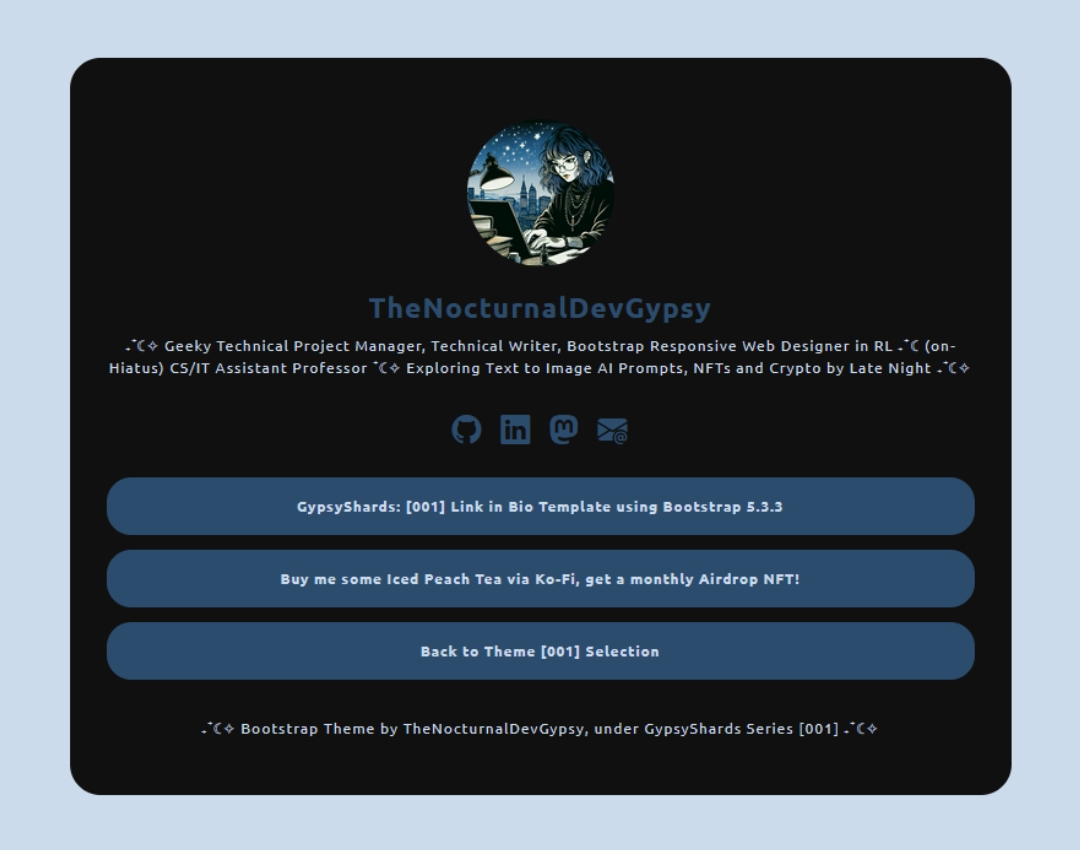
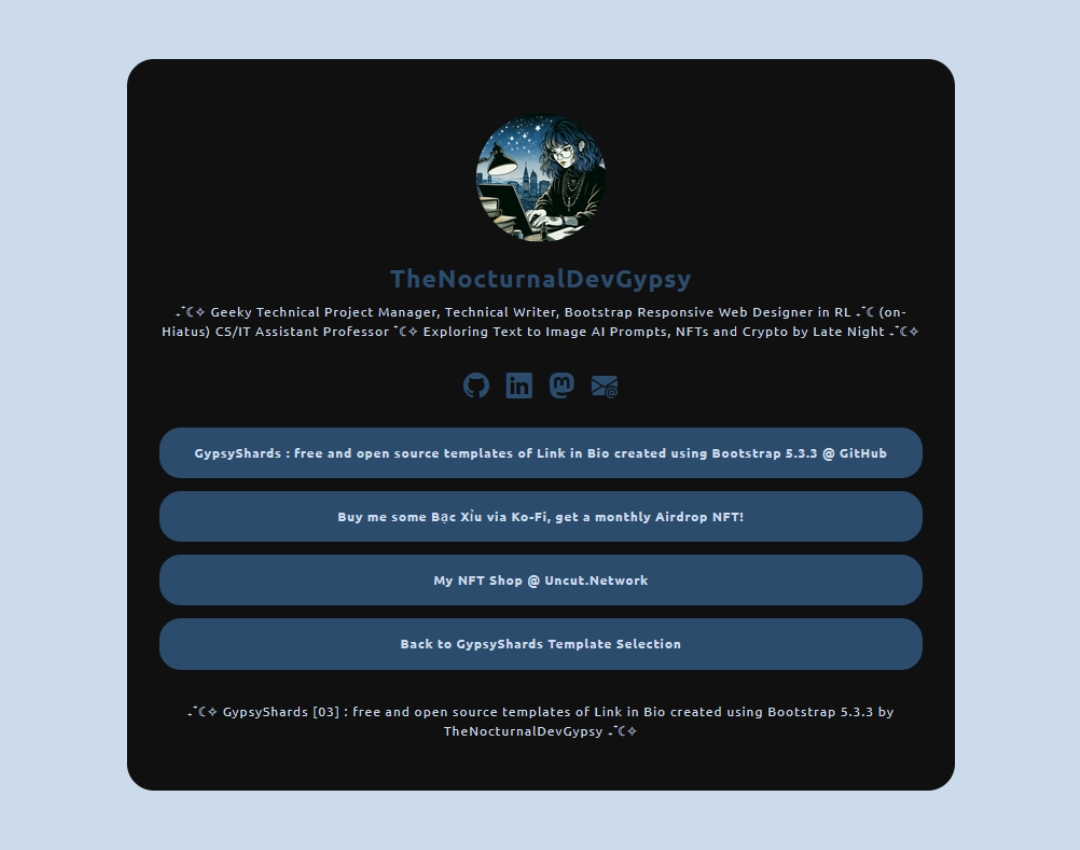
Updated README.md and all the templates, now showing from Latest to Oldest

Changed region(s): [[0.0611, 0.0612, 0.9472, 0.9482]]

diff --git a/index.html b/index.html
@@ -56,38 +56,39 @@
                <h1>GypsyShards : free and open source templates of Link in Bio created using Bootstrap 5.3.3</h1>
                <p>Looks like you stumbled to one of my personal project at GitHub, GypsyShards: one of my active personal project for refreshing my skills with the latest Bootstrap's release (5.3.3), focusing with creating Responsive (`mobile`, `tablet` and `desktop`) Link in Bio templates.</p>
                <p>If you find this repo helpful, please don't forget to <i class="lni lni-star-half"></i> and <i class="bi bi-diagram-3"></i> at <a href="https://github.com/thenocturnaldevgypsy/gypsyshards-bootstrap-template-linkinbio">GitHub</a>, also, maybe buy me a <i class="lni lni-coffee-cup"></i> at <a href="https://ko-fi.com/thenocturnaldevgypsy/">Ko-Fi</a>.</p>
+               <h2>From Latest to Oldest</h2>
             </div>
          <!-- Theme 001 Link in Bio Template - Home > Header // End -->
 
          <!-- Theme 001 Link in Bio Template - Home > Template Selection // Start -->
             <div class="template-selection-container">
-               <a href="theme-001-01.html" class="template-button">
-                  <img src="assets/img/001-01.jpg" alt="GypsyShards [Theme 001.1] Link in Bio Template using Bootstrap 5.3.3">
-                  <p>Theme 001.01 - Basic Link in Bio: One Color Background, Profile Picture, H1, Description, Quick Social Media Links, Link Buttons and Simple Footer.</p>
-               </a>
-               <a href="theme-001-02.html" class="template-button">
-                  <img src="assets/img/001-02.jpg" alt="GypsyShards [Theme 001.2] Link in Bio Template using Bootstrap 5.3.3">
-                  <p>Theme 001.02 - Basic Link in Bio: Color Fading Transition Background, Profile Picture, H1, Description, Quick Social Media Links, Link Buttons and Simple Footer.</p>
-               </a>
-               <a href="theme-001-03.html" class="template-button">
-                  <img src="assets/img/001-03.jpg" alt="GypsyShards [Theme 001.3] Link in Bio Template using Bootstrap 5.3.3">
-                  <p>Theme 001.03 - Basic Link in Bio: Profile Picture, H1, Description, Quick Social Media Links, Link Buttons and Simple Footer.</p>
-               </a>
-               <a href="theme-001-04.html" class="template-button">
-                  <img src="assets/img/001-04.jpg" alt="GypsyShards [Theme 001.4] Link in Bio Template using Bootstrap 5.3.3">
-                  <p>Theme 001.04 - Basic Link in Bio: Responsive Background Image, Semi-transparent Container, Profile Picture, H1, Description, Quick Social Media Links, Border Hover Link Buttons and Simple Footer.</p>
-               </a>
-               <a href="theme-001-05.html" class="template-button">
-                  <img src="assets/img/001-05.jpg" alt="GypsyShards [Theme 001.5] Link in Bio Template using Bootstrap 5.3.3">
-                  <p>Theme 001.05 - Basic Link in Bio: Responsive Background Image, Blurry via CSS, Semi-transparent Container, Profile Picture, H1, Description, Quick Social Media Links, Border Hover Link Buttons and Simple Footer.</p>
+               <a href="theme-001-07.html" class="template-button">
+                  <img src="assets/img/001-07.jpg" alt="GypsyShards [07] Link in Bio Template using Bootstrap 5.3.3">
+                  <p>Theme 07 - Semi-Basic Link in Bio: Half-image/Half-solid color Container, Profile Picture, H1, Description, Quick Social Media Links, Link Buttons with H2 Title and Description, and Simple Footer.</p>
                </a>
                <a href="theme-001-06.html" class="template-button">
-                  <img src="assets/img/001-06.jpg" alt="GypsyShards [Theme 001.6] Link in Bio Template using Bootstrap 5.3.3">
-                  <p>Theme 001.06 - Basic Link in Bio: Responsive Background Video from Youtube on Loop and Mute, Semi-transparent Container, Profile Picture, H1, Description, Quick Social Media Links, Border Hover Link Buttons and Simple Footer.</p>
+                  <img src="assets/img/001-06.jpg" alt="GypsyShards [06] Link in Bio Template using Bootstrap 5.3.3">
+                  <p>Theme 06 - Basic Link in Bio: Responsive Background Video from Youtube on Loop and Mute, Semi-transparent Container, Profile Picture, H1, Description, Quick Social Media Links, Border Hover Link Buttons and Simple Footer.</p>
                </a>
-               <a href="theme-001-07.html" class="template-button">
-                  <img src="assets/img/001-07.jpg" alt="GypsyShards [Theme 001.6] Link in Bio Template using Bootstrap 5.3.3">
-                  <p>Theme 001.07 - Semi-Basic Link in Bio: Half-image/Half-solid color Container, Profile Picture, H1, Description, Quick Social Media Links, Link Buttons with H2 Title and Description, and Simple Footer.</p>
+               <a href="theme-001-05.html" class="template-button">
+                  <img src="assets/img/001-05.jpg" alt="GypsyShards [05] Link in Bio Template using Bootstrap 5.3.3">
+                  <p>Theme 05 - Basic Link in Bio: Responsive Background Image, Blurry via CSS, Semi-transparent Container, Profile Picture, H1, Description, Quick Social Media Links, Border Hover Link Buttons and Simple Footer.</p>
+               </a>
+               <a href="theme-001-04.html" class="template-button">
+                  <img src="assets/img/001-04.jpg" alt="GypsyShards [04] Link in Bio Template using Bootstrap 5.3.3">
+                  <p>Theme 04 - Basic Link in Bio: Responsive Background Image, Semi-transparent Container, Profile Picture, H1, Description, Quick Social Media Links, Border Hover Link Buttons and Simple Footer.</p>
+               </a>
+               <a href="theme-001-03.html" class="template-button">
+                  <img src="assets/img/001-03.jpg" alt="GypsyShards [03] Link in Bio Template using Bootstrap 5.3.3">
+                  <p>Theme 03 - Basic Link in Bio: Profile Picture, H1, Description, Quick Social Media Links, Link Buttons and Simple Footer.</p>
+               </a>
+               <a href="theme-001-02.html" class="template-button">
+                  <img src="assets/img/001-02.jpg" alt="GypsyShards [02] Link in Bio Template using Bootstrap 5.3.3">
+                  <p>Theme 02 - Basic Link in Bio: Color Fading Transition Background, Profile Picture, H1, Description, Quick Social Media Links, Link Buttons and Simple Footer.</p>
+               </a>
+               <a href="theme-001-01.html" class="template-button">
+                  <img src="assets/img/001-01.jpg" alt="GypsyShards [01] Link in Bio Template using Bootstrap 5.3.3">
+                  <p>Theme 01 - Basic Link in Bio: One Color Background, Profile Picture, H1, Description, Quick Social Media Links, Link Buttons and Simple Footer.</p>
                </a>
             </div>
          <!-- Theme 001 Link in Bio Template - Home > Template Selection // End -->

diff --git a/theme-001-07.html b/theme-001-07.html
@@ -12,7 +12,7 @@
       <meta name="viewport" content="width=device-width, initial-scale=1">
 
       <!-- For SEO Purposes // Start -->
-         <title>GypsyShards: [Theme 001.7] Link in Bio Template using Bootstrap 5.3.3 by TheNocturnalDevGypsy</title>
+         <title>GypsyShards: [07] Link in Bio Template using Bootstrap 5.3.3 by TheNocturnalDevGypsy</title>
          <meta name="description" content="">
          <meta name="keywords" content="">
          <meta name="author" content="TheNocturnalDevGypsy [ Abegail Baustista Torrendon ]">
@@ -71,15 +71,19 @@
             <!-- Theme 001.7 Link in Bio Template > Quick Links Buttons // Start -->
                <div class="linkinbio-quick-links">
                   <div class="linkinbio-link-button" onclick="window.open('https://github.com/thenocturnaldevgypsy/gypsyshards-bootstrap-template-linkinbio')">
-                     <h2>GypsyShards: [001] Link in Bio Template using Bootstrap 5.3.3</h2>
+                     <h2>GypsyShards : free and open source templates of Link in Bio created using Bootstrap 5.3.3</h2>
                      <span>Find the Repo at Github, please don't forget to <i class="lni lni-star-half"></i> and <i class="bi bi-diagram-3"></i>!</span>
                   </div>
                   <div class="linkinbio-link-button" onclick="window.open('https://ko-fi.com/thenocturnaldevgypsy')">
-                     <h2>Buy me some Iced Peach Tea via Ko-Fi, get a monthly Airdrop NFT!</h2>
-                     <span>If you find this theme/template useful, you can buy me a <i class="lni lni-coffee-cup"></i>!</span>
+                     <h2>Buy me some Bạc Xỉu via Ko-Fi, get a monthly Airdrop NFT!</h2>
+                     <span>If you find this theme/template useful, you can buy me a <i class="lni lni-coffee-cup"></i> at Ko-Fi!</span>
+                  </div>
+                  <div class="linkinbio-link-button" onclick="window.open('https://uncut.network/user/4296077072')">
+                     <h2>My NFT Shop @ Uncut.Network</h2>
+                     <span>NFTs Collection available at Uncut.network (WAXp and Polygon)</span>
                   </div>
                   <div class="linkinbio-link-button" onclick="window.location.href='index.html'">
-                     <h2>Back to Theme [001] Selection</h2>
+                     <h2>Back to GypsyShards Template Selection</h2>
                      <span>Browse the other templates under this project</span>
                </div>
                </div>
@@ -87,7 +91,8 @@
 
             <!-- Theme 001.7 Link in Bio Template > Footer // Start -->
                <div class="linkinbio-footer">
-                  <p>₊⁺☾✧ Bootstrap Theme by TheNocturnalDevGypsy ₊⁺☾✧</p>
+                  <p>₊⁺☾✧ GypsyShards [07] by TheNocturnalDevGypsy ₊⁺☾✧</p>
+                  <p>Free and open source templates of Link in Bio created using Bootstrap 5.3.3</p>
                </div>
             <!-- Theme 001.7 Link in Bio Template > Footer // End -->
 

diff --git a/theme-001-01.html b/theme-001-01.html
@@ -12,7 +12,7 @@
       <meta name="viewport" content="width=device-width, initial-scale=1">
 
       <!-- For SEO Purposes // Start -->
-         <title>GypsyShards: [Theme 001.1] Link in Bio Template using Bootstrap 5.3.3 by TheNocturnalDevGypsy</title>
+         <title>GypsyShards: [01] Link in Bio Template using Bootstrap 5.3.3 by TheNocturnalDevGypsy</title>
          <meta name="description" content="">
          <meta name="keywords" content="">
          <meta name="author" content="TheNocturnalDevGypsy [ Abegail Baustista Torrendon ]">
@@ -70,15 +70,16 @@
 
             <!-- Theme 001.1 Link in Bio Template > Quick Links Buttons // Start -->
                <div class="linkinbio-quick-links">
-                  <a href="https://github.com/thenocturnaldevgypsy/gypsyshards-bootstrap-template-linkinbio" class="linkinbio-link-button">GypsyShards: [001] Link in Bio Template using Bootstrap 5.3.3</a>
-                  <a href="https://ko-fi.com/thenocturnaldevgypsy/" class="linkinbio-link-button">Buy me some Iced Peach Tea via Ko-Fi, get a monthly Airdrop NFT!</a>
-                  <a href="index.html" class="linkinbio-link-button">Back to Theme [001] Selection</a>
+                  <a href="https://github.com/thenocturnaldevgypsy/gypsyshards-bootstrap-template-linkinbio" class="linkinbio-link-button">GypsyShards : free and open source templates of Link in Bio created using Bootstrap 5.3.3 @ GitHub</a>
+                  <a href="https://ko-fi.com/thenocturnaldevgypsy/" class="linkinbio-link-button">Buy me some Bạc Xỉu via Ko-Fi, get a monthly Airdrop NFT!</a>
+                  <a href="https://uncut.network/user/4296077072" class="linkinbio-link-button">My NFT Shop @ Uncut.Network</a>
+                  <a href="index.html" class="linkinbio-link-button">Back to GypsyShards Template Selection</a>
                </div>
             <!-- Theme 001.1 Link in Bio Template > Quick Links Buttons // Start -->
 
             <!-- Theme 001.1 Link in Bio Template > Footer // Start -->
                <div class="linkinbio-footer">
-                  <p>₊⁺☾✧ Bootstrap Theme by TheNocturnalDevGypsy, under GypsyShards Series [001] ₊⁺☾✧</p>
+                  <p>₊⁺☾✧ GypsyShards [01] :  free and open source templates of Link in Bio created using Bootstrap 5.3.3 by TheNocturnalDevGypsy ₊⁺☾✧</p>
                </div>
             <!-- Theme 001.1 Link in Bio Template > Footer // End -->
 

diff --git a/theme-001-02.html b/theme-001-02.html
@@ -12,7 +12,7 @@
       <meta name="viewport" content="width=device-width, initial-scale=1">
 
       <!-- For SEO Purposes // Start -->
-         <title>GypsyShards: [Theme 001.2] Link in Bio Template using Bootstrap 5.3.3 by TheNocturnalDevGypsy</title>
+         <title>GypsyShards: [02] Link in Bio Template using Bootstrap 5.3.3 by TheNocturnalDevGypsy</title>
          <meta name="description" content="">
          <meta name="keywords" content="">
          <meta name="author" content="TheNocturnalDevGypsy [ Abegail Baustista Torrendon ]">
@@ -70,15 +70,16 @@
 
             <!-- Theme 001.2 Link in Bio Template > Quick Links Buttons // Start -->
                <div class="linkinbio-quick-links">
-                  <a href="https://github.com/thenocturnaldevgypsy/gypsyshards-bootstrap-template-linkinbio" class="linkinbio-link-button">GypsyShards: [001] Link in Bio Template using Bootstrap 5.3.3</a>
-                  <a href="https://ko-fi.com/thenocturnaldevgypsy/" class="linkinbio-link-button">Buy me some Iced Peach Tea via Ko-Fi, get a monthly Airdrop NFT!</a>
-                  <a href="index.html" class="linkinbio-link-button">Back to Theme [001] Selection</a>
+                  <a href="https://github.com/thenocturnaldevgypsy/gypsyshards-bootstrap-template-linkinbio" class="linkinbio-link-button">GypsyShards : free and open source templates of Link in Bio created using Bootstrap 5.3.3 @ GitHub</a>
+                  <a href="https://ko-fi.com/thenocturnaldevgypsy/" class="linkinbio-link-button">Buy me some Bạc Xỉu via Ko-Fi, get a monthly Airdrop NFT!</a>
+                  <a href="https://uncut.network/user/4296077072" class="linkinbio-link-button">My NFT Shop @ Uncut.Network</a>
+                  <a href="index.html" class="linkinbio-link-button">Back to GypsyShards Template Selection</a>
                </div>
             <!-- Theme 001.2 Link in Bio Template > Quick Links Buttons // Start -->
 
             <!-- Theme 001.2 Link in Bio Template > Footer // Start -->
                <div class="linkinbio-footer">
-                  <p>₊⁺☾✧ Bootstrap Theme by TheNocturnalDevGypsy, under GypsyShards Series [001] ₊⁺☾✧</p>
+                  <p>₊⁺☾✧ GypsyShards [02] :  free and open source templates of Link in Bio created using Bootstrap 5.3.3 by TheNocturnalDevGypsy ₊⁺☾✧</p>
                </div>
             <!-- Theme 001.2 Link in Bio Template > Footer // End -->
 

diff --git a/theme-001-03.html b/theme-001-03.html
@@ -12,7 +12,7 @@
       <meta name="viewport" content="width=device-width, initial-scale=1">
 
       <!-- For SEO Purposes // Start -->
-         <title>GypsyShards: [Theme 001.3] Link in Bio Template using Bootstrap 5.3.3 by TheNocturnalDevGypsy</title>
+         <title>GypsyShards: [03] Link in Bio Template using Bootstrap 5.3.3 by TheNocturnalDevGypsy</title>
          <meta name="description" content="">
          <meta name="keywords" content="">
          <meta name="author" content="TheNocturnalDevGypsy [ Abegail Baustista Torrendon ]">
@@ -70,15 +70,16 @@
 
             <!-- Theme 001.3 Link in Bio Template > Quick Links Buttons // Start -->
                <div class="linkinbio-quick-links">
-                  <a href="https://github.com/thenocturnaldevgypsy/gypsyshards-bootstrap-template-linkinbio" class="linkinbio-link-button">GypsyShards: [001] Link in Bio Template using Bootstrap 5.3.3</a>
-                  <a href="https://ko-fi.com/thenocturnaldevgypsy/" class="linkinbio-link-button">Buy me some Iced Peach Tea via Ko-Fi, get a monthly Airdrop NFT!</a>
-                  <a href="index.html" class="linkinbio-link-button">Back to Theme [001] Selection</a>
+                  <a href="https://github.com/thenocturnaldevgypsy/gypsyshards-bootstrap-template-linkinbio" class="linkinbio-link-button">GypsyShards : free and open source templates of Link in Bio created using Bootstrap 5.3.3 @ GitHub</a>
+                  <a href="https://ko-fi.com/thenocturnaldevgypsy/" class="linkinbio-link-button">Buy me some Bạc Xỉu via Ko-Fi, get a monthly Airdrop NFT!</a>
+                  <a href="https://uncut.network/user/4296077072" class="linkinbio-link-button">My NFT Shop @ Uncut.Network</a>
+                  <a href="index.html" class="linkinbio-link-button">Back to GypsyShards Template Selection</a>
                </div>
             <!-- Theme 001.3 Link in Bio Template > Quick Links Buttons // Start -->
 
             <!-- Theme 001.3 Link in Bio Template > Footer // Start -->
                <div class="linkinbio-footer">
-                  <p>₊⁺☾✧ Bootstrap Theme by TheNocturnalDevGypsy, under GypsyShards Series [001] ₊⁺☾✧</p>
+                  <p>₊⁺☾✧ GypsyShards [03] :  free and open source templates of Link in Bio created using Bootstrap 5.3.3 by TheNocturnalDevGypsy ₊⁺☾✧</p>
                </div>
             <!-- Theme 001.3 Link in Bio Template > Footer // End -->
 

diff --git a/theme-001-04.html b/theme-001-04.html
@@ -12,7 +12,7 @@
       <meta name="viewport" content="width=device-width, initial-scale=1.0">
 
       <!-- For SEO Purposes // Start -->
-         <title>GypsyShards: [Theme 001.4] Link in Bio Template using Bootstrap 5.3.3 by TheNocturnalDevGypsy</title>
+         <title>GypsyShards: [04] Link in Bio Template using Bootstrap 5.3.3 by TheNocturnalDevGypsy</title>
          <meta name="description" content="">
          <meta name="keywords" content="">
          <meta name="author" content="TheNocturnalDevGypsy [ Abegail Baustista Torrendon ]">
@@ -70,15 +70,16 @@
 
             <!-- Theme 001.4 Link in Bio Template > Quick Links Buttons // Start -->
                <div class="linkinbio-quick-links">
-                  <a href="https://github.com/thenocturnaldevgypsy/gypsyshards-bootstrap-template-linkinbio" class="linkinbio-link-button">GypsyShards: [001] Link in Bio Template using Bootstrap 5.3.3</a>
-                  <a href="https://ko-fi.com/thenocturnaldevgypsy/" class="linkinbio-link-button">Buy me some Iced Peach Tea via Ko-Fi, get a monthly Airdrop NFT!</a>
-                  <a href="index.html" class="linkinbio-link-button">Back to Theme [001] Selection</a>
+                  <a href="https://github.com/thenocturnaldevgypsy/gypsyshards-bootstrap-template-linkinbio" class="linkinbio-link-button">GypsyShards : free and open source templates of Link in Bio created using Bootstrap 5.3.3 @ GitHub</a>
+                  <a href="https://ko-fi.com/thenocturnaldevgypsy/" class="linkinbio-link-button">Buy me some Bạc Xỉu via Ko-Fi, get a monthly Airdrop NFT!</a>
+                  <a href="https://uncut.network/user/4296077072" class="linkinbio-link-button">My NFT Shop @ Uncut.Network</a>
+                  <a href="index.html" class="linkinbio-link-button">Back to GypsyShards Template Selection</a>
                </div>
             <!-- Theme 001.4 Link in Bio Template > Quick Links Buttons // Start -->
 
             <!-- Theme 001.4 Link in Bio Template > Footer // Start -->
                <div class="linkinbio-footer">
-                  <p>₊⁺☾✧ Bootstrap Theme by TheNocturnalDevGypsy ₊⁺☾✧</p>
+                  <p>₊⁺☾✧ GypsyShards [04] :  free and open source templates of Link in Bio created using Bootstrap 5.3.3 by TheNocturnalDevGypsy ₊⁺☾✧</p>
                </div>
             <!-- Theme 001.4 Link in Bio Template > Footer // End -->
 

diff --git a/theme-001-05.html b/theme-001-05.html
@@ -12,7 +12,7 @@
       <meta name="viewport" content="width=device-width, initial-scale=1.0">
 
       <!-- For SEO Purposes // Start -->
-         <title>GypsyShards: [Theme 001.5] Link in Bio Template using Bootstrap 5.3.3 by TheNocturnalDevGypsy</title>
+         <title>GypsyShards: [05] Link in Bio Template using Bootstrap 5.3.3 by TheNocturnalDevGypsy</title>
          <meta name="description" content="">
          <meta name="keywords" content="">
          <meta name="author" content="TheNocturnalDevGypsy [ Abegail Baustista Torrendon ]">
@@ -70,15 +70,16 @@
 
             <!-- Theme 001.5 Link in Bio Template > Quick Links Buttons // Start -->
                <div class="linkinbio-quick-links">
-                  <a href="https://github.com/thenocturnaldevgypsy/gypsyshards-bootstrap-template-linkinbio" class="linkinbio-link-button">GypsyShards: [001] Link in Bio Template using Bootstrap 5.3.3</a>
-                  <a href="https://ko-fi.com/thenocturnaldevgypsy/" class="linkinbio-link-button">Buy me some Iced Peach Tea via Ko-Fi, get a monthly Airdrop NFT!</a>
-                  <a href="index.html" class="linkinbio-link-button">Back to Theme [001] Selection</a>
+                  <a href="https://github.com/thenocturnaldevgypsy/gypsyshards-bootstrap-template-linkinbio" class="linkinbio-link-button">GypsyShards : free and open source templates of Link in Bio created using Bootstrap 5.3.3 @ GitHub</a>
+                  <a href="https://ko-fi.com/thenocturnaldevgypsy/" class="linkinbio-link-button">Buy me some Bạc Xỉu via Ko-Fi, get a monthly Airdrop NFT!</a>
+                  <a href="https://uncut.network/user/4296077072" class="linkinbio-link-button">My NFT Shop @ Uncut.Network</a>
+                  <a href="index.html" class="linkinbio-link-button">Back to GypsyShards Template Selection</a>
                </div>
             <!-- Theme 001.5 Link in Bio Template > Quick Links Buttons // Start -->
 
             <!-- Theme 001.5 Link in Bio Template > Footer // Start -->
                <div class="linkinbio-footer">
-                  <p>₊⁺☾✧ Bootstrap Theme by TheNocturnalDevGypsy ₊⁺☾✧</p>
+                  <p>₊⁺☾✧ GypsyShards [05] :  free and open source templates of Link in Bio created using Bootstrap 5.3.3 by TheNocturnalDevGypsy ₊⁺☾✧</p>
                </div>
             <!-- Theme 001.5 Link in Bio Template > Footer // End -->
 

diff --git a/theme-001-06.html b/theme-001-06.html
@@ -12,7 +12,7 @@
       <meta name="viewport" content="width=device-width, initial-scale=1.0">
 
       <!-- For SEO Purposes // Start -->
-         <title>GypsyShards: [Theme 001.6] Link in Bio Template using Bootstrap 5.3.3 by TheNocturnalDevGypsy</title>
+         <title>GypsyShards: [06] Link in Bio Template using Bootstrap 5.3.3 by TheNocturnalDevGypsy</title>
          <meta name="description" content="">
          <meta name="keywords" content="">
          <meta name="author" content="TheNocturnalDevGypsy [ Abegail Baustista Torrendon ]">
@@ -77,15 +77,16 @@
 
             <!-- Theme 001.6 Link in Bio Template > Quick Links Buttons // Start -->
                <div class="linkinbio-quick-links">
-                  <a href="https://github.com/thenocturnaldevgypsy/gypsyshards-bootstrap-template-linkinbio" class="linkinbio-link-button">GypsyShards: [001] Link in Bio Template using Bootstrap 5.3.3</a>
-                  <a href="https://ko-fi.com/thenocturnaldevgypsy/" class="linkinbio-link-button">Buy me some Iced Peach Tea via Ko-Fi, get a monthly Airdrop NFT!</a>
-                  <a href="index.html" class="linkinbio-link-button">Back to Theme [001] Selection</a>
+                  <a href="https://github.com/thenocturnaldevgypsy/gypsyshards-bootstrap-template-linkinbio" class="linkinbio-link-button">GypsyShards : free and open source templates of Link in Bio created using Bootstrap 5.3.3 @ GitHub</a>
+                  <a href="https://ko-fi.com/thenocturnaldevgypsy/" class="linkinbio-link-button">Buy me some Bạc Xỉu via Ko-Fi, get a monthly Airdrop NFT!</a>
+                  <a href="https://uncut.network/user/4296077072" class="linkinbio-link-button">My NFT Shop @ Uncut.Network</a>
+                  <a href="index.html" class="linkinbio-link-button">Back to GypsyShards Template Selection</a>
                </div>
             <!-- Theme 001.6 Link in Bio Template > Quick Links Buttons // Start -->
 
             <!-- Theme 001.6 Link in Bio Template > Footer // Start -->
                <div class="linkinbio-footer">
-                  <p>₊⁺☾✧ Bootstrap Theme by TheNocturnalDevGypsy ₊⁺☾✧</p>
+                  <p>₊⁺☾✧ GypsyShards [06] :  free and open source templates of Link in Bio created using Bootstrap 5.3.3 by TheNocturnalDevGypsy ₊⁺☾✧</p>
                </div>
             <!-- Theme 001.6 Link in Bio Template > Footer // End -->
 

diff --git a/assets/css/style.css b/assets/css/style.css
@@ -29,6 +29,12 @@ body {
    margin-bottom: 20px;
 }
 
+.header-container h2 {
+   margin-top: 30px;
+   font-size: 15px;
+   font-style: italic;
+}
+
 .header-container p {
    font-size: 13px;
 }

diff --git a/README.md b/README.md
@@ -34,31 +34,32 @@ I've used the following tools for this project:
    - `index.html`
    - `assets/css/style.css`
    - `assets/js/main.css`
-- 001.01: Basic Link in Bio: One Color Background, Profile Picture, H1, Description, Quick Social Media Links, Link Buttons and Simple Footer.
-   - `theme-001-01.html`
-   - `assets/css/style-001-01.css`
-   - `assets/js/main-001-01.css`
-- 001.02: Basic Link in Bio: Color Fading Transition Background, Profile Picture, H1, Description, Quick Social Media Links, Link Buttons and Simple Footer
-   - `theme-001-02.html`
-   - `assets/css/style-001-02.css`
-   - `assets/js/main-001-02.css`
-- 001.03: Basic Link in Bio: Profile Picture, H1, Description, Quick Social Media Links, Link Buttons and Simple Footer.
-   - `theme-001-03.html`
-   - `assets/css/style-001-03.css`
-   - `assets/js/main-001-03.css`
-- 001.04: Basic Link in Bio: Responsive Background Image, Semi-transparent Container, Profile Picture, H1, Description, Quick Social Media Links, Border Hover Link Buttons and Simple Footer.
-   - `theme-001-04.html`
-   - `assets/css/style-001-04.css`
-   - `assets/js/main-001-04.css`
-- 001.05: Basic Link in Bio: Responsive Background Image, Blurry via CSS, Semi-transparent Container, Profile Picture, H1, Description, Quick Social Media Links, Border Hover Link Buttons and Simple Footer.
-   - `theme-001-05.html`
-   - `assets/css/style-001-05.css`
-   - `assets/js/main-001-0.css`
-- 001.06: Basic Link in Bio: Responsive Background Video from Youtube on Loop and Mute, Semi-transparent Container, Profile Picture, H1, Description, Quick Social Media Links, Border Hover Link Buttons and Simple Footer..
-   - `theme-001-06.html`
-   - `assets/css/style-001-06.css`
-   - `assets/js/main-001-06.css`
-- 001.07: Semi-Basic Link in Bio: Half-image/Half-solid color Container, Profile Picture, H1, Description, Quick Social Media Links, Link Buttons with H2 Title and Description, and Simple Footer.
+
+- 07: Semi-Basic Link in Bio: Half-image/Half-solid color Container, Profile Picture, H1, Description, Quick Social Media Links, Link Buttons with H2 Title and Description, and Simple Footer.
    - `theme-001-07.html`
    - `assets/css/style-001-07.css`
    - `assets/js/main-001-07.css`
+- 06: Basic Link in Bio: Responsive Background Video from Youtube on Loop and Mute, Semi-transparent Container, Profile Picture, H1, Description, Quick Social Media Links, Border Hover Link Buttons and Simple Footer..
+   - `theme-001-06.html`
+   - `assets/css/style-001-06.css`
+   - `assets/js/main-001-06.css`
+- 05: Basic Link in Bio: Responsive Background Image, Blurry via CSS, Semi-transparent Container, Profile Picture, H1, Description, Quick Social Media Links, Border Hover Link Buttons and Simple Footer.
+   - `theme-001-05.html`
+   - `assets/css/style-001-05.css`
+   - `assets/js/main-001-0.css`
+- 04: Basic Link in Bio: Responsive Background Image, Semi-transparent Container, Profile Picture, H1, Description, Quick Social Media Links, Border Hover Link Buttons and Simple Footer.
+   - `theme-001-04.html`
+   - `assets/css/style-001-04.css`
+   - `assets/js/main-001-04.css`
+- 03: Basic Link in Bio: Profile Picture, H1, Description, Quick Social Media Links, Link Buttons and Simple Footer.
+   - `theme-001-03.html`
+   - `assets/css/style-001-03.css`
+   - `assets/js/main-001-03.css`
+- 02: Basic Link in Bio: Color Fading Transition Background, Profile Picture, H1, Description, Quick Social Media Links, Link Buttons and Simple Footer
+   - `theme-001-02.html`
+   - `assets/css/style-001-02.css`
+   - `assets/js/main-001-02.css`
+- 01: Basic Link in Bio: One Color Background, Profile Picture, H1, Description, Quick Social Media Links, Link Buttons and Simple Footer.
+   - `theme-001-01.html`
+   - `assets/css/style-001-01.css`
+   - `assets/js/main-001-01.css`
